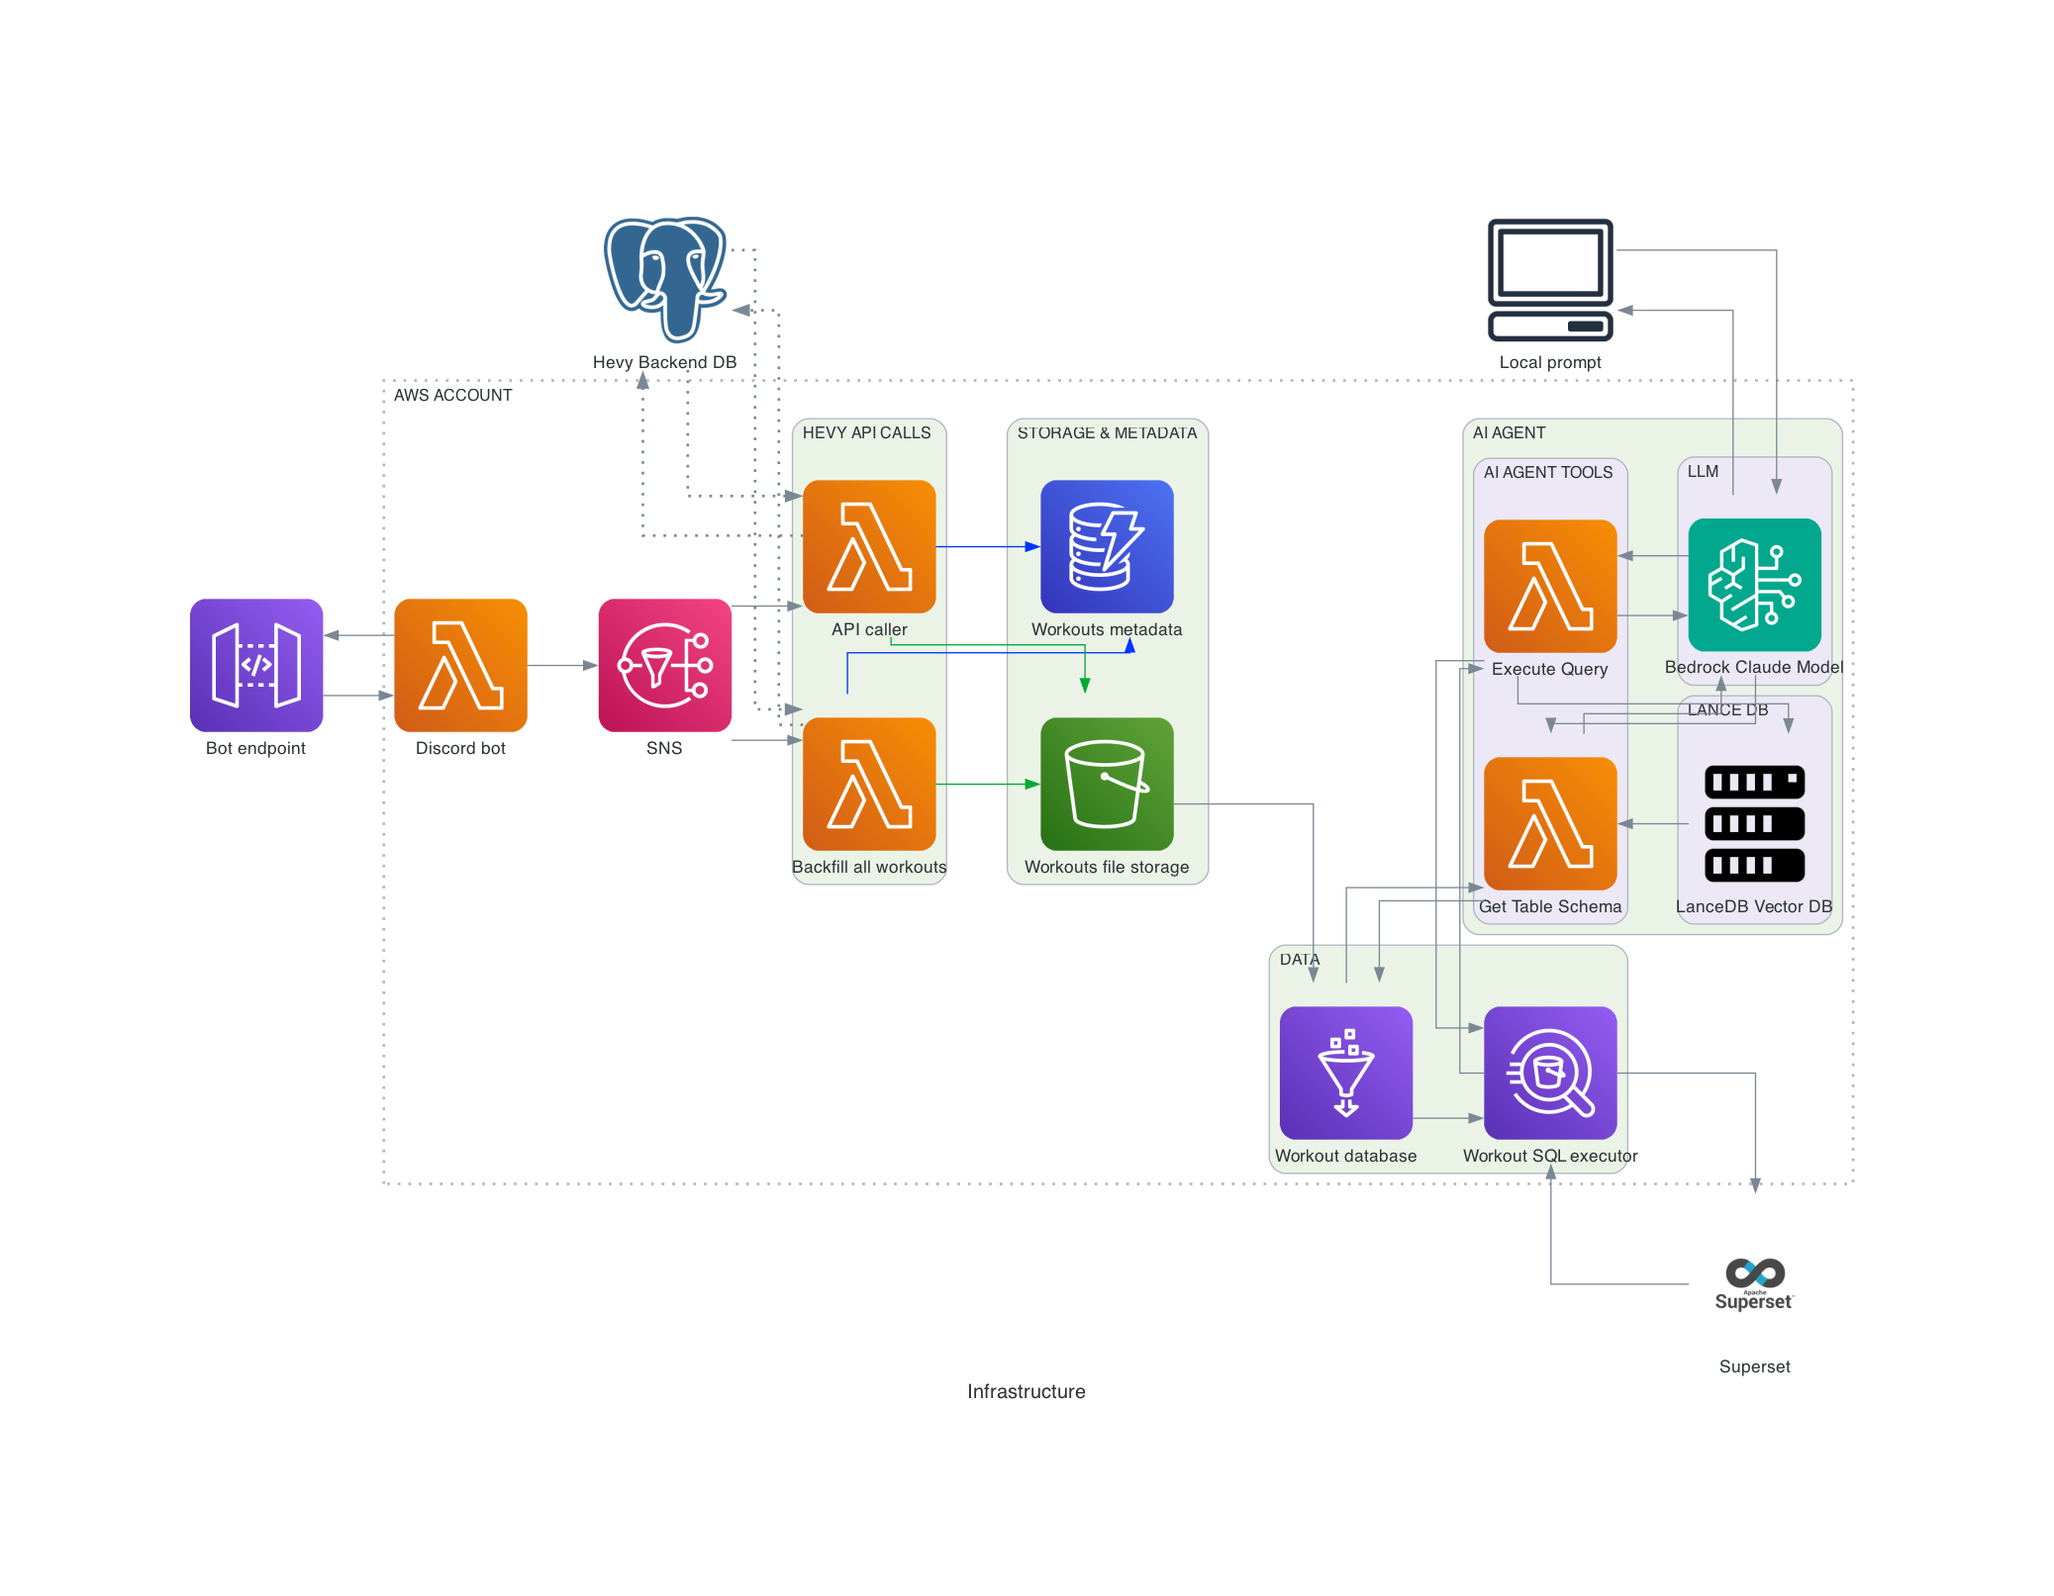
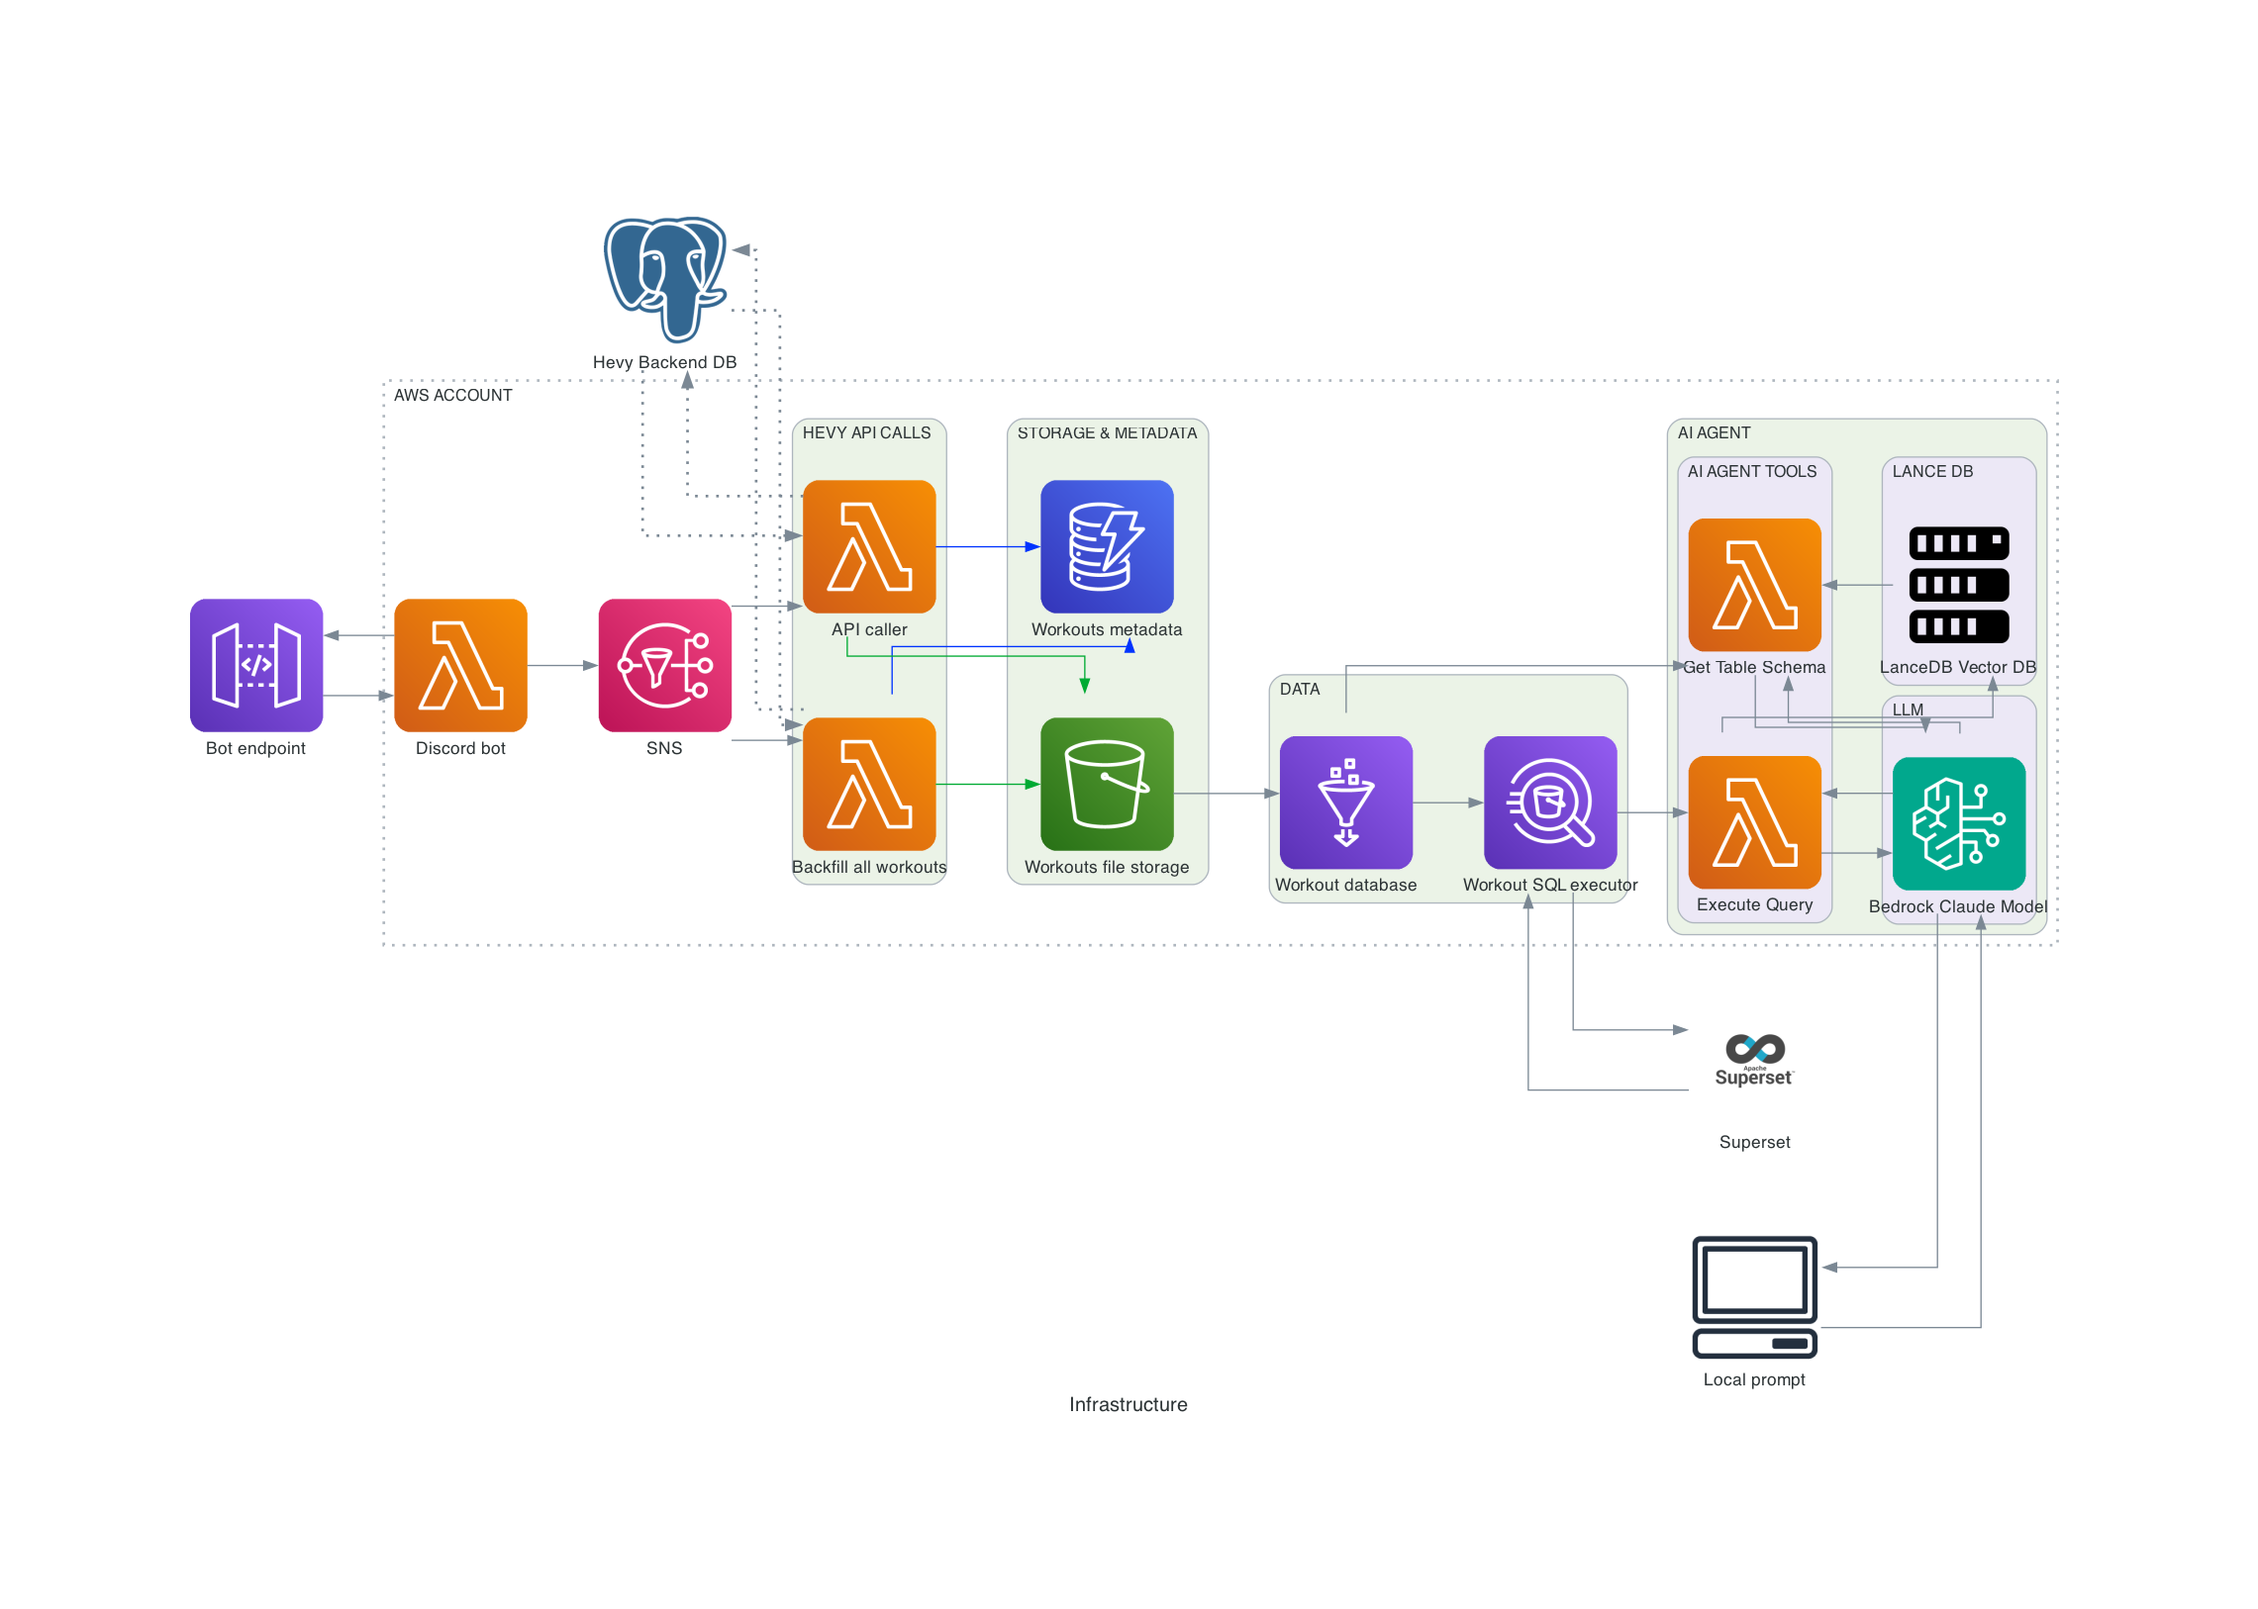
Refactor infrastructure diagram: update AI Agent connections and remove redundant edges

Changed region(s): [[0.0617, 0.124, 0.9253, 0.8679], [0.4627, 0.8679, 0.5243, 0.8989]]

diff --git a/side-scripts/infrastructure-diagram/diagram.py b/side-scripts/infrastructure-diagram/diagram.py
@@ -59,9 +59,7 @@ with Diagram("Infrastructure", show=False):
                 execute_query = Lambda("Execute Query")
 
         # AI Agent connections
-        get_table_schema >> glue
         glue >> get_table_schema  # return arrow
-        execute_query >> athena
         athena >> execute_query  # return arrow
         execute_query >> lancedb
         lancedb >> get_table_schema
@@ -77,7 +75,6 @@ with Diagram("Infrastructure", show=False):
     execute_query >> bedrock  # return arrow
     fetch_all >> Edge(style="dotted, bold") >> hevy_server
     hevy_api_caller >> Edge(style="dotted, bold") >> hevy_server
-    hevy_api_caller >> bedrock
     hevy_server >> Edge(style="dotted, bold") >> fetch_all
     hevy_server >> Edge(style="dotted, bold") >> hevy_api_caller
     athena >> superset
